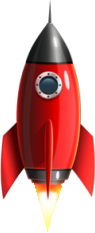
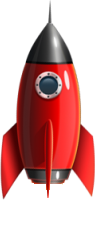
fix: basic thrust sprite

Changed region(s): [[0.3579, 0.7811, 0.6526, 1.0]]

diff --git a/TODO.md b/TODO.md
@@ -19,4 +19,5 @@ this is a todo list to investigate and/or implement things that i hear about or 
 - [ ] figure out how to make it explode if its touching ground and on its side (or if it touches the ground too fast)
   - [ ] make a explosion sprite sheet for death
 - [x] make a reset button
-- [ ] implement an animation (preferably programmatically), displaying white exhaust smoke for the rotation acceleration
+- [ ] implement an animation (preferably programmatically), displaying white exhaust smoke for the rotation acceleration and linear accelaration
+  - [ ] every exhaust frame has to be 28px wide by 79px high
